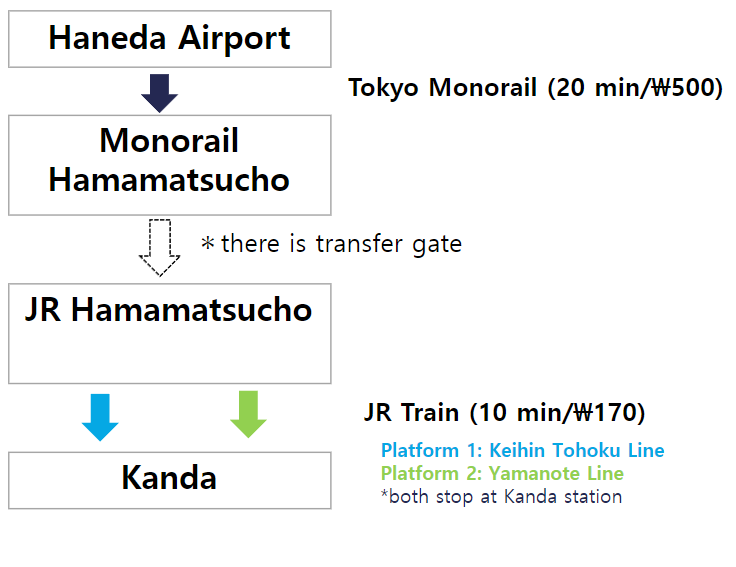
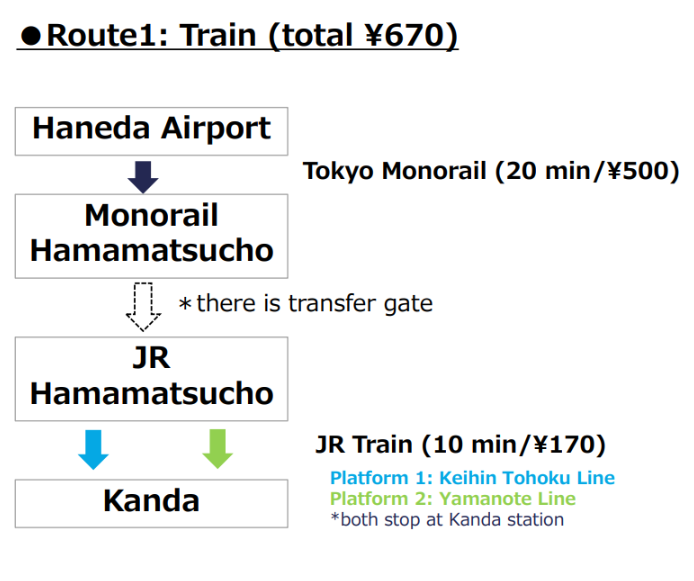
"16th commit"

diff --git a/src/app/eBook/page.tsx b/src/app/eBook/page.tsx
@@ -79,7 +79,7 @@ export default function Ebook() {
                     &nbsp;
                     <li>
                     <button>
-                        <Link href={'/'}><h4>Keynote Speech</h4></Link>
+                        <Link href={'https://parkafm-my.sharepoint.com/:p:/g/personal/sun_ham_parksystems_com/EcRsQ66gHjhJowIfgAK2-mUBUV5LI3v0RCfmfrtjxDfDiA?e=Yjs1xp'}><h4>Keynote Speech</h4></Link>
                     </button>
                     {/* <button>
                         <Link href={'eBook/KeynoteSpeech/quiz'}>
@@ -136,11 +136,11 @@ export default function Ebook() {
                     </li>
 
                     &nbsp;
-                    <h4 className={style.daySubTitle}>Accurion ISE Product & Marketing Strategy Overview</h4>
+                    <h4 className={style.daySubTitle}>Accurion Product & Marketing Overview</h4>
                     &nbsp;
                     <li>
                     <button>
-                    <Link href={'https://parkafm-my.sharepoint.com/:p:/g/personal/sun_ham_parksystems_com/EQ18WEjqRFVIlR4OiJA2ey4B6jIgyQgLXR5GtRIjLUbOEg?e=sMENBo'}><h4>ISE Product Overview</h4></Link>
+                    <Link href={'https://parkafm-my.sharepoint.com/:p:/g/personal/sun_ham_parksystems_com/EQ18WEjqRFVIlR4OiJA2ey4B6jIgyQgLXR5GtRIjLUbOEg?e=sMENBo'}><h4>ISE Product & Marketing Overview</h4></Link>
                     </button>
                     {/* <button>
                         <Link href={'eBook/ISE/quiz'}>
@@ -187,7 +187,7 @@ export default function Ebook() {
 
                     <li>
                     <button>
-                    <Link href={'https://parkafm-my.sharepoint.com/:p:/g/personal/sun_ham_parksystems_com/EQ8CFNFb1glJvDrJ_-A-I_gBZSr8lsTB3-l1oi1lv7Vvig?e=LnQ5pl'}><h4>PPT Template Guide</h4></Link>
+                    <Link href={'https://parkafm-my.sharepoint.com/:p:/g/personal/sun_ham_parksystems_com/EfOXrOD6trZGmyB8bBzUkOIBCC5oQP11vq94Wdn7zPqUEw?e=xm3C5j'}><h4>PPT Template Guide</h4></Link>
                     </button>
                     {/* <button>
                         <Link href={'eBook/templateGuide/quiz'}>
@@ -213,7 +213,7 @@ export default function Ebook() {
 
                     <li>
                     <button>
-                    <Link href={'/'}><h4>Technical Marketing and Product Plan</h4></Link>
+                    <Link href={'https://parkafm-my.sharepoint.com/:p:/g/personal/sun_ham_parksystems_com/EbKGKmOE7clKiVPraWCSwRYBUJRj293ZZZjK9TJJyAhNPQ?e=6uuLkM'}><h4>Technical Marketing and Product Plan</h4></Link>
                     </button>
                     {/* <button>
                         <Link href={'eBook/productPlan/quiz'}>
@@ -264,7 +264,7 @@ export default function Ebook() {
 
                     <li>
                     <button>
-                    <Link href={'/'}><h4>Regional Marketing Best Known Method - PSG</h4></Link>
+                    <Link href={'https://parkafm-my.sharepoint.com/:p:/g/personal/sun_ham_parksystems_com/EXB_M4HK_GxIs7SYt4sOVF0Bp_lPnEfQ5d0MtLkUos94tw?e=ujX8wL'}><h4>Regional Marketing Best Known Method - PSG</h4></Link>
                     </button>
                     {/* <button>
                         <Link href={'eBook/bestKnownMethod/quiz'}>
@@ -285,7 +285,7 @@ export default function Ebook() {
                     </li>
 
                     &nbsp;
-                    <h4 className={style.daySubTitle}>NS Branding</h4>
+                    <h4 className={style.daySubTitle}>NANOscientific Branding</h4>
                     &nbsp;
                     <li>
                     <button>
@@ -320,8 +320,12 @@ export default function Ebook() {
                     </button> */}
                     </li>
 
+                 
+                   
+                    
+
                     &nbsp;
-                    <h4 className={style.daySubTitle}>NS Marketing Tactic (40 mins)</h4>
+                    <h4 className={style.daySubTitle}>2024 NANOscientific Event Plan - Regional</h4>
                     &nbsp;
                     <li>
                     <button>
@@ -333,20 +337,6 @@ export default function Ebook() {
                         </Link>
                     </button> */}
                     </li>
-                    <li>
-                    <button>
-                    <Link href={'/'}><h4>Social Media & Paid Media Strategy</h4></Link>
-                    </button>
-                    {/* <button>
-                        <Link href={'eBook/socialAndPaidMedia/quiz'}>
-                        <h5>Quiz</h5>
-                        </Link>
-                    </button> */}
-                    </li>
-
-                    &nbsp;
-                    <h4 className={style.daySubTitle}>2024 NANOscientific Event Plan - Regional</h4>
-                    &nbsp;
                     <li>
                     <button>
                     <Link href={'https://parkafm-my.sharepoint.com/:p:/g/personal/sun_ham_parksystems_com/EY2lfebD9-lMuE-k9MkKFLEBnOXBLLs8UGEpsgfHZX-DXA?e=f9gG0Y'}><h4>NSS America (PSI)</h4></Link>
@@ -429,7 +419,7 @@ export default function Ebook() {
        {/* Day 3 */}
        <div className={style.day3}>
                 <div className={style.dayHeader}>
-                 <h2>Day 3: Lead and Marketo Training</h2>
+                 <h2>Day 3: Lead & Marketo Training</h2>
                  {!day3Open ? (
                     <button onClick={day3OpenClickOpen}>
                         <svg xmlns="http://www.w3.org/2000/svg" width="30px" height="30px" viewBox="0 0 24 24" fill="none">
@@ -449,7 +439,7 @@ export default function Ebook() {
                 
             { day3Open === true &&   
                     <ul>
-                    <h4 className={style.daySubTitle}>Introduction (20mins)</h4>
+                    <h4 className={style.daySubTitle}>Marketo Introduction</h4>
                     &nbsp;
                     <li>
                     <button>
@@ -463,11 +453,11 @@ export default function Ebook() {
                     </li>
 
                     &nbsp;
-                    <h4 className={style.daySubTitle}>Marketo Training and Hands-on session (5hrs ~ ) </h4>
+                    <h4 className={style.daySubTitle}>Marketo Training</h4>
                     &nbsp;
                     <li>
                     <button>
-                    <Link href={'/'}><h4>Marketo Training #1 – Event</h4></Link>
+                    <Link href={'/'}><h4>Marketo Training Session #1 – Event</h4></Link>
                     </button>
                     <button>
                         <Link href={'eBook/training1/quiz'}>
@@ -478,7 +468,7 @@ export default function Ebook() {
 
                     <li>
                     <button>
-                    <Link href={'https://parkafm-my.sharepoint.com/:p:/g/personal/sun_ham_parksystems_com/EfrxIk2PNo1Ftzz_b5IpQSABL-FH3HAqm3AXLK9oGSmOQQ?e=IhcUPK'}><h4>Marketo Training #2 – Webinar</h4></Link>
+                    <Link href={'https://parkafm-my.sharepoint.com/:p:/g/personal/sun_ham_parksystems_com/EfrxIk2PNo1Ftzz_b5IpQSABL-FH3HAqm3AXLK9oGSmOQQ?e=IhcUPK'}><h4>Marketo Training Session #2 – Webinar</h4></Link>
                     </button>
                     <button>
                         <Link href={'eBook/training2/quiz'}>
@@ -489,7 +479,7 @@ export default function Ebook() {
 
                     <li>
                     <button>
-                    <Link href={'/'}><h4>Marketo Training #3 – Marketing Performance Insight</h4></Link>
+                    <Link href={'/'}><h4>Marketo Training Session #3 – Marketing Performance Insight</h4></Link>
                     </button>
                     <button>
                         <Link href={'eBook/training3/quiz'}>

diff --git a/src/app/location/page.tsx b/src/app/location/page.tsx
@@ -114,7 +114,7 @@ export default function Location() {
         <div className={style.bodyComponents}>
             <h5>Haneda Airport - Kanda Station</h5>
             <div className={style.group}>
-                <h5>Route1: Train (total 670 Won)</h5>
+                <h5>Route1: Train (total 670 Yen)</h5>
                  
                  <Image
                     className={style.logo}
@@ -127,7 +127,7 @@ export default function Location() {
             </div>
 
             <div className={style.group}>
-                <h5>Route2: Bus – Train (total 1150 Won)</h5>
+                <h5>Route2: Bus – Train (total 1150 Yen)</h5>
                 ※ need to purchase bus ticket in advance <br/><br/>
                 <button><a href='https://www.keikyu-bus.co.jp/en/airport/h-tokyo/'>
                 <svg xmlns="http://www.w3.org/2000/svg" width="30px" height="30px" viewBox="0 -2 20 20">
@@ -149,7 +149,7 @@ export default function Location() {
             </div>
 
             <div className={style.group}>
-                <h5>Route3: Taxi (total approx. 7500 Won)</h5>
+                <h5>Route3: Taxi (total approx. 7500 Yen)</h5>
             </div>
             <div className={style.group}>
             <h5>Kanda station - Accommodation</h5>
